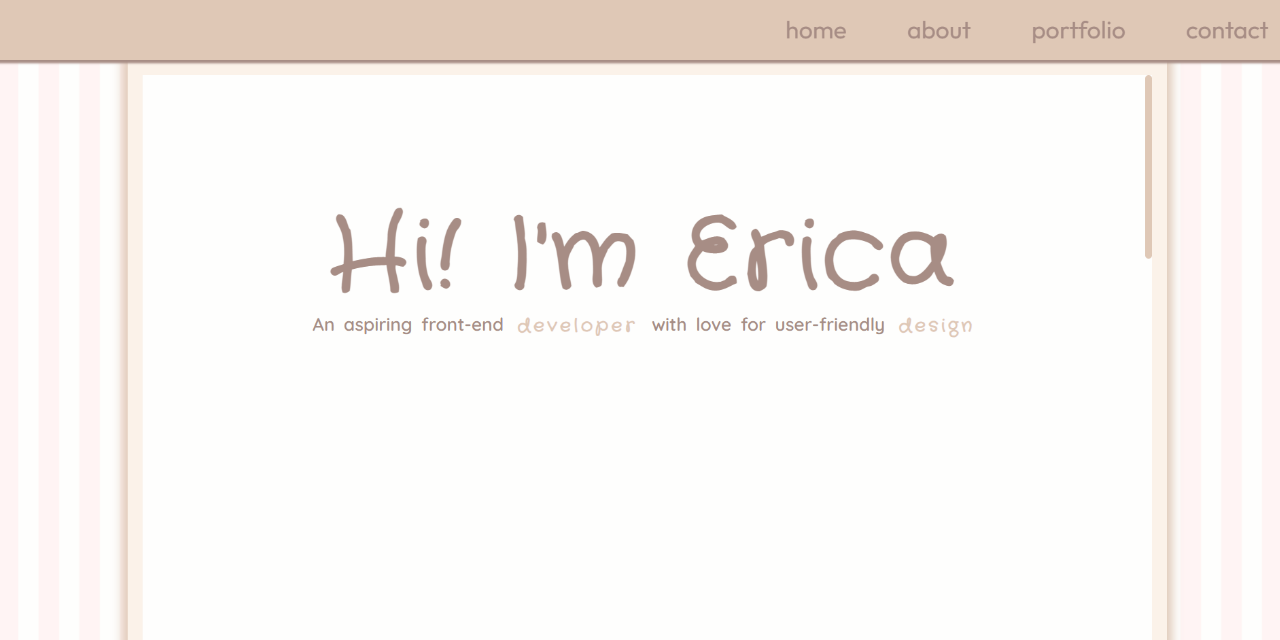
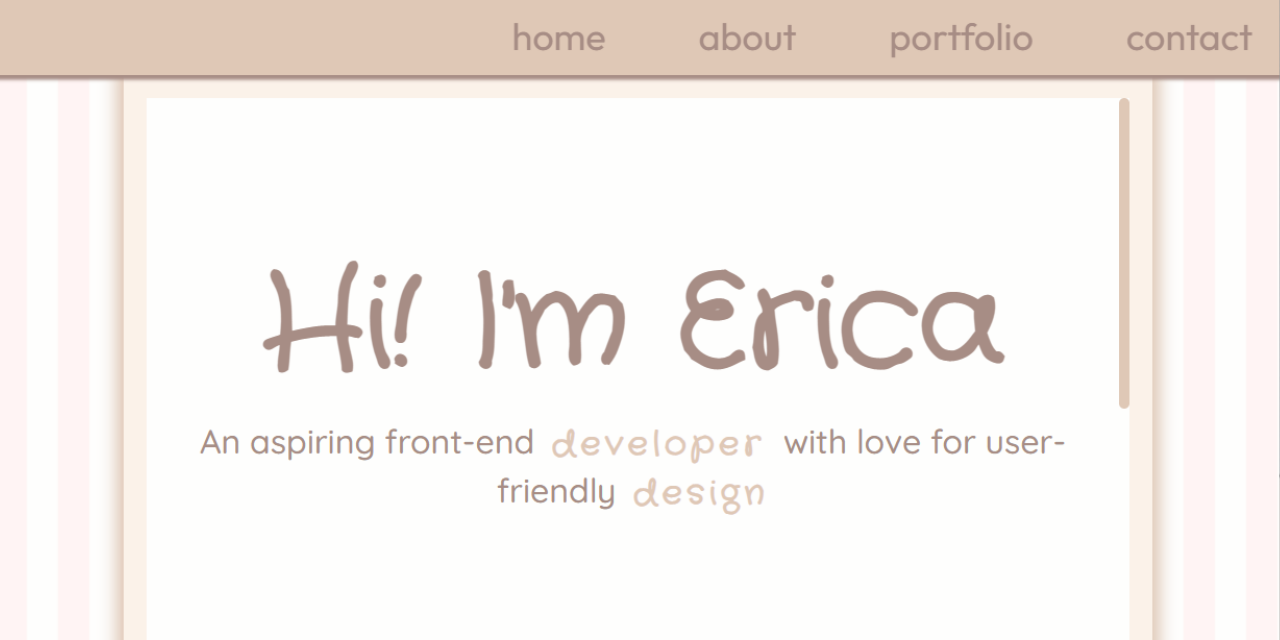
Added styles

diff --git a/src/components/technologies/Technologies.jsx b/src/components/technologies/Technologies.jsx
@@ -4,13 +4,13 @@ import './technologies.css';
 function Technologies() {
   return (
     <div id="technologies">
-        <h1>Tech Stack</h1>
-        <div id="tech-list">
-            <img src="https://cdn.jsdelivr.net/gh/devicons/devicon/icons/html5/html5-plain.svg" alt="html" title="HTML"/>
-            <img src="https://cdn.jsdelivr.net/gh/devicons/devicon/icons/css3/css3-plain.svg" alt="css" title="CSS" />
-            <img src="https://cdn.jsdelivr.net/gh/devicons/devicon/icons/javascript/javascript-plain.svg" alt="JavaScript" title="JavaScript"/>
-            <img src="https://cdn.jsdelivr.net/gh/devicons/devicon/icons/react/react-original.svg" alt="react" title="ReactJS"/>
-            <img src="https://cdn.jsdelivr.net/gh/devicons/devicon/icons/java/java-plain.svg" alt="java"  title="Java" />
+        <h1 className="section-header" id="tech-stack">Tech Stack</h1>
+        <div className="tech-list">
+          <div className="tech-list-item"><img src="https://cdn.jsdelivr.net/gh/devicons/devicon/icons/html5/html5-plain.svg" alt="html" title="HTML"/> HTML</div>
+          <div><img src="https://cdn.jsdelivr.net/gh/devicons/devicon/icons/css3/css3-plain.svg" alt="css" title="CSS" /></div>
+          <div><img src="https://cdn.jsdelivr.net/gh/devicons/devicon/icons/javascript/javascript-plain.svg" alt="JavaScript" title="JavaScript"/></div>
+          <div><img src="https://cdn.jsdelivr.net/gh/devicons/devicon/icons/react/react-original.svg" alt="react" title="ReactJS"/></div>
+          <div><img src="https://cdn.jsdelivr.net/gh/devicons/devicon/icons/java/java-plain.svg" alt="java"  title="Java" /></div>
         </div>
     </div>
   )

diff --git a/src/index.css b/src/index.css
@@ -35,9 +35,10 @@ body {
 
   --header-sm: 14px; /*For text*/
   --header-md: 16px; /*For h2*/
-  --header-lg: 18px; /*For h1 Section titles*/
+  --header-lg: 5vw; /*For h1 Section titles*/
   --header-size-xl: 10vw; /*For h1 Home title */
-  --subheader: 2.8vw;
+  --subheader: 2.8vw; /*For Home subtitle*/
+  --header-space: 0.3rem;
 
 
   /*Container sizes*/
@@ -80,7 +81,6 @@ body {
 .content-container{
   /*Holds everything under the nav bar*/
   width: var(--container-width-large);
-  height: 100%;
   background-color: var(--color-cream);
   border: 15px solid var(--color-citrus);
   box-shadow: 0px 0px 10px 5px var(--color-caramel);
@@ -96,8 +96,15 @@ body {
 section {
   padding: 1.5rem;
   width: 100%;
-  height: 100%;
   margin-bottom: 20%;
+}
+
+.section-header {
+  font-family: 'Quicksand', sans-serif;
+  color: var(--color-choco);
+  text-align: center;
+  font-size: var(--header-lg);
+  letter-spacing: var(--header-space);
 }
 
 section p {

diff --git a/src/components/home/home.css b/src/components/home/home.css
@@ -5,6 +5,7 @@
     display: flex;
     flex-direction: column;
     align-items: center;
+    height: 100vh;
 }
 
 #bunny{
@@ -19,6 +20,7 @@
     flex-direction: column;
     align-items: center;
 }
+
 
 .home-title {
     /*Title */
@@ -35,6 +37,17 @@
     font-size: var(--subheader);
     text-align: center;
     font-weight: 500;
+    animation-name: title-fade-in;
+    animation-duration: 0.9s;
+}
+@keyframes title-fade-in {
+    from {
+        opacity: 0;
+        translate: 0% 10%;
+    }
+    to {
+        opacity: 1; 
+    }
 }
 
 .deco-subtitle-text {
@@ -55,7 +68,6 @@
 /*Tablet*/
 @media screen and (max-width: 767px) {
     .home-subtitle {
-        text-align: center;
         font-size: var(--subheader);
     }
 }
@@ -66,7 +78,6 @@
         font-size: calc(var(--header-size-xl) + 8vw);
     }
     .home-subtitle {
-        text-align: center;
         font-size: calc(var(--subheader) + 3.2vw);
     }
 }

diff --git a/src/components/technologies/technologies.css b/src/components/technologies/technologies.css
@@ -1,32 +1,27 @@
 #technologies {
-    padding: 2%;
+    padding: 1.5rem;
     border-radius: 10px;
     align-items: center;
 }
 
-#technologies h1{
+#tech-stack{
     font-family: 'Quicksand', sans-serif;
     margin: 5% 0% 5% 0%;
-    color: var(--color-choco);
-    text-align: center;
-    font-size: 2.5rem;
-    letter-spacing: 0.3rem;
 }
 
-#tech-list{
+.tech-list{
     display: flex;
     flex-direction: row;
     justify-content: space-evenly;
     margin: 0px;
+}
 
-    word-spacing: 0.2rem;
-    font-weight: 400;
-    font-size: 1rem;
-    width: 100%;
+.tech-list-item{
+    display: flex;
+    flex-direction: column;
 }
 
 #tech-list img {
-    width: 5%;
     border: 5px solid var(--color-lightestpink);
     border-radius: 10%;
     background-color: var(--color-lightestpink);

diff --git a/src/components/about/About.jsx b/src/components/about/About.jsx
@@ -6,7 +6,7 @@ import pfp from '../../images/Erica_LinkedIn_pfp.png';
 function About() {
   return (
     <section id="about">
-      <h1>About Me</h1>
+      <h1 className='section-header'>About Me</h1>
       <div className='about-content'>
         <div className='img-and-paragraph'>
             <img src={pfp} alt="Erica"></img>

diff --git a/src/components/portfolio/Portfolio.jsx b/src/components/portfolio/Portfolio.jsx
@@ -6,7 +6,7 @@ import './portfolio.css'
 function Portfolio() {
   return (
     <section id="portfolio">
-      <h1>Portfolio</h1>
+      <h1 className='section-header'>Portfolio</h1>
       <div className='portfolio-container'>
         {portfolioData.map(project =>(
           <PortfolioItem key={project.id}

diff --git a/src/components/portfolio/portfolio.css b/src/components/portfolio/portfolio.css
@@ -3,11 +3,4 @@
 }
 
 #portfolio h1{
-    font-family: 'Quicksand', sans-serif;
-    color: var(--color-choco);
-    text-align: center;
-    font-size: 2.5rem;
-    margin-bottom: 2rem;
-    letter-spacing: 0.3rem;
-    text-decoration-line: solid;
 }

diff --git a/src/components/about/about.css b/src/components/about/about.css
@@ -4,12 +4,7 @@
 }
 
 #about h1{
-    font-family: 'Quicksand', sans-serif;
-    color: var(--color-choco);
-    text-align: center;
-    font-size: 2.5rem;
     margin: 5% 0% 5% 0%;
-    letter-spacing: 0.3rem;
 }
 
 .about-content{
